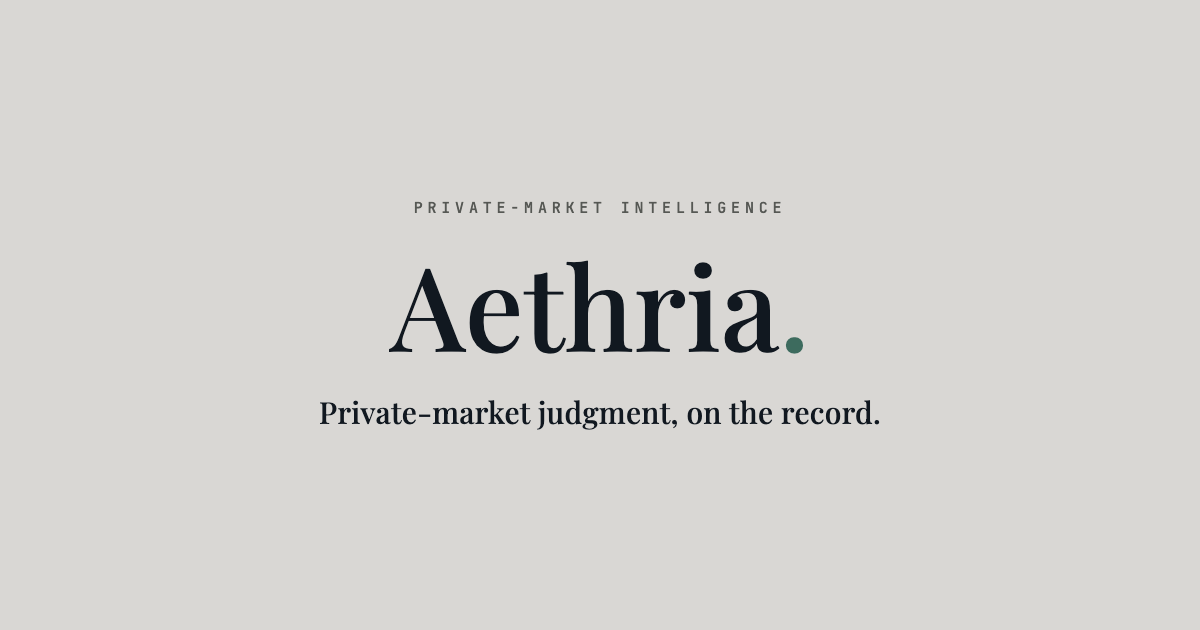
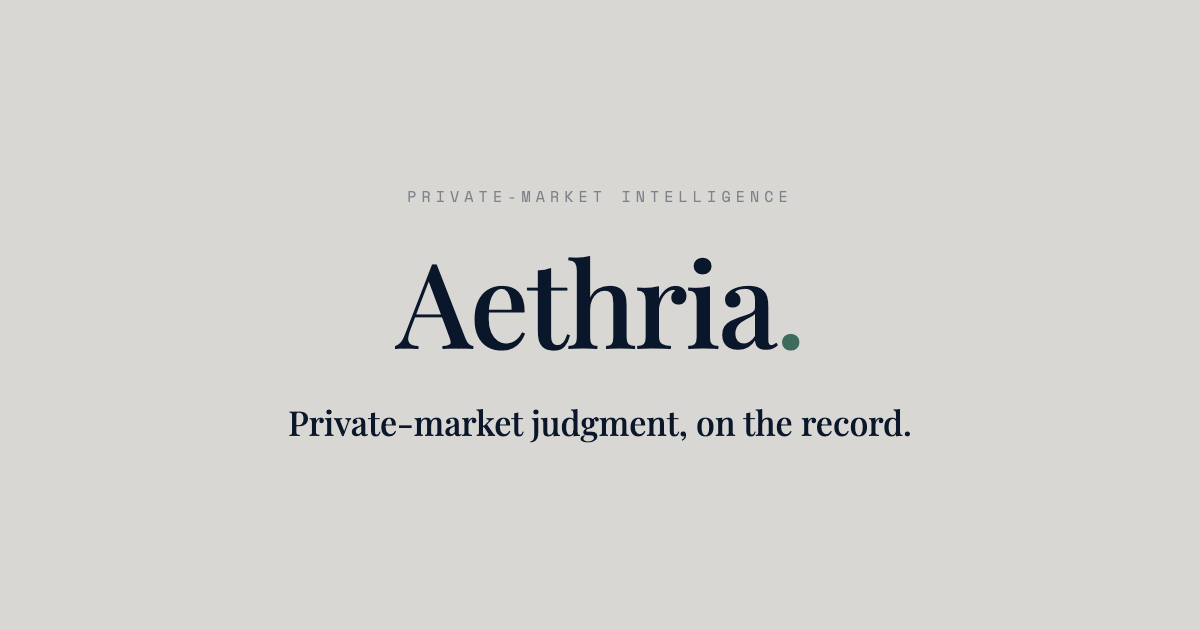
feat(web): canonical domain aethria.co; experiment — ink shifts to deep navy #0a1629

Changed region(s): [[0.3083, 0.3921, 0.6783, 0.573], [0.2158, 0.6333, 0.7708, 0.6937], [0.3392, 0.3016, 0.6475, 0.3317]]

diff --git a/web-front-end/src/index.css b/web-front-end/src/index.css
@@ -11,16 +11,16 @@
   /* Gallery of Instruments — cool architectural grey stock (replaces warm cream). */
   --stock: #d9d7d4;
   --stock-2: #d1cfcb;
-  --ink: #111820;
-  --ink-2: rgba(17, 24, 32, 0.66);
-  --ink-3: rgba(17, 24, 32, 0.44);
-  --ink-4: rgba(17, 24, 32, 0.3);
-  --line: rgba(17, 24, 32, 0.16);
-  --line-2: rgba(17, 24, 32, 0.26);
+  --ink: #0a1629;
+  --ink-2: rgba(10, 22, 41, 0.66);
+  --ink-3: rgba(10, 22, 41, 0.44);
+  --ink-4: rgba(10, 22, 41, 0.3);
+  --line: rgba(10, 22, 41, 0.16);
+  --line-2: rgba(10, 22, 41, 0.26);
   --accent: #3d6b5e;
   --mx: clamp(20px, 6vw, 120px);
 
-  --color-oxford: #111820;
+  --color-oxford: #0a1629;
   --color-paper: #d9d7d4;
   --color-ivory: #d9d7d4;
   --color-charcoal: #26313f;
@@ -53,7 +53,7 @@
   --section-padding-y-mobile: 56px;
   /* All marketing section top/bottom borders + matching 1px hairlines use this (1px solid). */
   --section-divider: var(--line);
-  --section-diamond: rgba(17, 24, 32, 0.2);
+  --section-diamond: rgba(10, 22, 41, 0.2);
 
   /* Frame borders (match app-front-end) */
   --frame-opacity: 0.06;
@@ -67,17 +67,17 @@
   /* Semantic roles for consistent contrast and token usage */
   --surface-base: var(--stock);
   --surface-strong: var(--color-oxford);
-  --surface-strong-hover: rgba(17, 24, 32, 0.88);
+  --surface-strong-hover: rgba(10, 22, 41, 0.88);
   --text-primary: var(--ink);
-  --text-secondary: rgba(17, 24, 32, 0.74);
-  --text-tertiary: rgba(17, 24, 32, 0.62);
-  --text-muted: rgba(17, 24, 32, 0.5);
-  --text-subtle: rgba(17, 24, 32, 0.42);
+  --text-secondary: rgba(10, 22, 41, 0.74);
+  --text-tertiary: rgba(10, 22, 41, 0.62);
+  --text-muted: rgba(10, 22, 41, 0.5);
+  --text-subtle: rgba(10, 22, 41, 0.42);
   --text-inverse: rgba(217, 215, 212, 0.94);
   --text-inverse-secondary: rgba(217, 215, 212, 0.78);
   --text-inverse-muted: rgba(217, 215, 212, 0.66);
-  --label-strong: rgba(17, 24, 32, 0.74);
-  --label-muted: rgba(17, 24, 32, 0.56);
+  --label-strong: rgba(10, 22, 41, 0.74);
+  --label-muted: rgba(10, 22, 41, 0.56);
 }
 
 @media (max-width: 768px) {

diff --git a/web-front-end/index.html b/web-front-end/index.html
@@ -9,14 +9,14 @@
     <meta property="og:title" content="Aethria — Private-market judgment, on the record" />
     <meta property="og:description" content="Aethria reads the open web for companies, scores each one against your fund's thesis, keeps the record where its reviewers disagree, and files an investment-ready brief for every name it surfaces." />
     <meta property="og:type" content="website" />
-    <meta property="og:url" content="https://aethria.com" />
-    <meta property="og:image" content="https://aethria.com/og.png" />
+    <meta property="og:url" content="https://aethria.co" />
+    <meta property="og:image" content="https://aethria.co/og.png" />
     <meta property="og:image:width" content="1200" />
     <meta property="og:image:height" content="630" />
     <meta name="twitter:card" content="summary_large_image" />
     <meta name="twitter:title" content="Aethria — Private-market judgment, on the record" />
     <meta name="twitter:description" content="Aethria reads the open web for companies, scores each one against your fund's thesis, keeps the record where its reviewers disagree, and files an investment-ready brief for every name it surfaces." />
-    <meta name="twitter:image" content="https://aethria.com/og.png" />
+    <meta name="twitter:image" content="https://aethria.co/og.png" />
     <meta name="apple-mobile-web-app-capable" content="yes" />
     <meta name="apple-mobile-web-app-status-bar-style" content="default" />
     <meta name="apple-mobile-web-app-title" content="Aethria" />
@@ -27,7 +27,7 @@
           "@context": "https://schema.org",
           "@type": "Organization",
           "name": "Aethria",
-          "url": "https://aethria.com",
+          "url": "https://aethria.co",
           "description": "Private-market intelligence for funds that need the evidence trail."
         },
         {

diff --git a/web-front-end/tailwind.config.js b/web-front-end/tailwind.config.js
@@ -8,7 +8,7 @@ export default {
   theme: {
     extend: {
       colors: {
-        oxford: '#111820',
+        oxford: '#0a1629',
         paper: '#d9d7d4',
         ivory: '#d9d7d4',
         canvas: '#d9d7d4',
